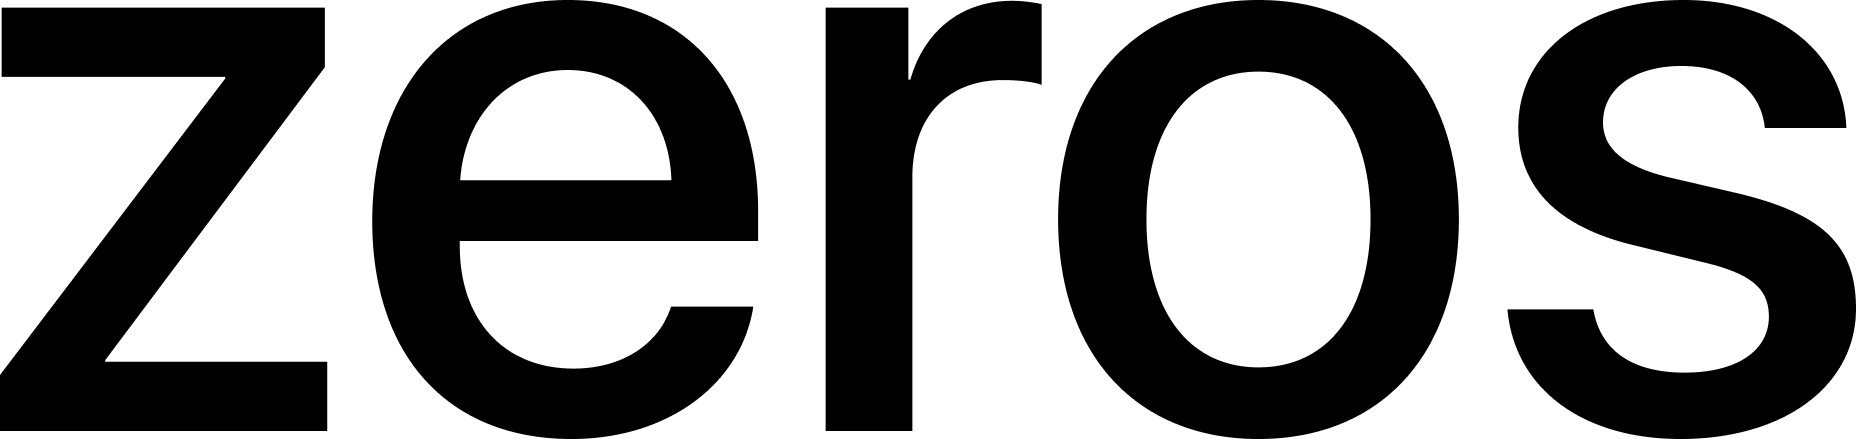
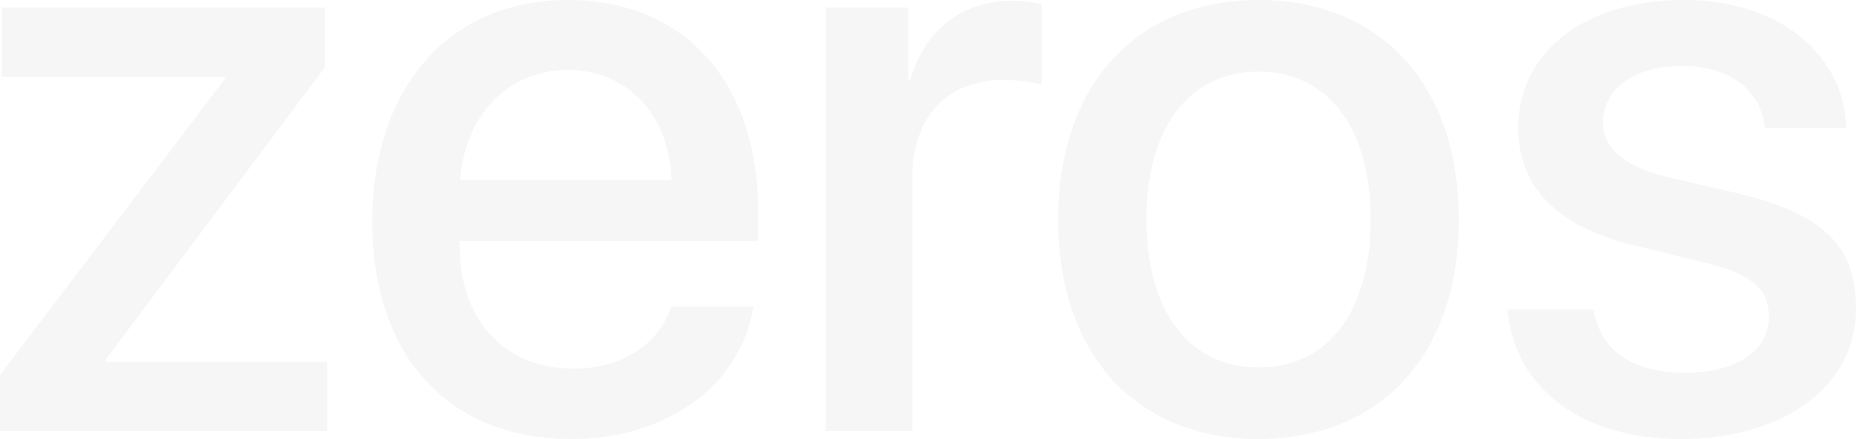
,

diff --git a/src/app/page.jsx b/src/app/page.jsx
@@ -57,7 +57,7 @@ export default function Home() {
     isAutoScrolling.current = true;
     setTimeout(() => {
       isAutoScrolling.current = false;
-    }, 1200);
+    }, 400);
   }
 
   useEffect(() => {
@@ -87,7 +87,7 @@ export default function Home() {
 
   return (
     <motion.div
-      animate={{ backgroundColor: currentSection !== 'top' ? "#000" : "#fff" }}
+      animate={{ backgroundColor: currentSection !== 'top' ? "#090909" : "#F6F6F7" }}
       transition={{ duration: 0.5 }}
       className="flex flex-col min-h-screen"
     >
@@ -102,39 +102,39 @@ export default function Home() {
       />
       <div ref={breakpointRef} className="h-screen flex flex-col">
         <div className="flex-grow" />
-        <div className="flex flex-col gap-4 p-6 mx-auto">
-          <span className="sf-pro-regular text-4xl w-140">
+        <div className="flex flex-col gap-4 px-16 py-6 mx-auto">
+          <span className="sf-pro-regular text-4xl w-140 text-[#090909]">
             We provide software factory services, tailoring solutions to your needs.
           </span>
           <Image
             src={Logo}
             alt="Logo"
-            className="justify-center items-center flex mix-blend-difference filter brightness-0 invert"
+            className="justify-center items-center flex mix-blend-exclusion"
           />
         </div>
       </div>
-      <div ref={lastDivRef} style={{ height: "100vh", width: "100%" }} className="flex flex-col items-center px-4">
+      <div ref={lastDivRef} style={{ height: "100vh", width: "100%" }} className="flex flex-col items-center">
         <motion.span
-          className="text-white mix-blend-difference mt-8"
+          className="text-white mix-blend-exclusion mt-8"
           initial={{ fontSize: "130px" }}
-          animate={{ fontSize: currentSection !== 'top' ? "167px" : "130px" }}
+          animate={{ fontSize: currentSection !== 'top' ? "163px" : "130px" }}
           transition={{ duration: 0.5 }}
         >
           Developing to your needs.
         </motion.span>
-        <div className="bg-[#191919] rounded-2xl flex-grow flex w-full m-8">
+        <div className="bg-[#191919] rounded-2xl flex-grow flex w-full my-8">
 
         </div>
       </div>
-      <div ref={teamRef} style={{ height: "100vh", width: "100%" }} className="flex flex-col items-center px-4 bg-black text-white text-sf-pro-regular text-6xl justify-center">
+      <div ref={teamRef} style={{ height: "100vh", width: "100%" }} className="flex flex-col items-center px-14 bg-[#090909] text-white text-sf-pro-regular text-6xl justify-center">
         <span className="w-full text-justify">
           We are a team of developers and designers, based in Buenos Aires, Argentina, who factors software into your businesses and ideas, transforming what's in your mind to code and design.
         </span>
       </div>
-      <div ref={servicesRef} style={{ height: "100vh", width: "100%" }} className="flex flex-col px-5 bg-black">
+      <div ref={servicesRef} style={{ height: "100vh", width: "100%" }} className="flex flex-col px-15 bg-[#090909]">
         <Services contactRef={contactRef} setCurrentSection={setCurrentSection} />
       </div>
-      <div ref={contactRef} style={{ height: "100vh", width: "100%" }} className="flex flex-col px-6 bg-black">
+      <div ref={contactRef} style={{ height: "100vh", width: "100%" }} className="flex flex-col px-16 bg-[#090909]">
         <Contact />
       </div>
 

diff --git a/src/sections/Services.jsx b/src/sections/Services.jsx
@@ -3,38 +3,38 @@ import TypewriterComponent from "typewriter-effect";
 import AccordionItem from "../components/AccordionItem";
 
 function RotatingPhrase() {
-    return (
-        <div className="flex flex-row text-2xl mt-4 gap-1.5">
-            <span>
-                *What you
-            </span>
-            <TypewriterComponent options={{
-                strings: ["need", "want", "wish"],
-                loop: true,
-                autoStart: true,
-                wrapperClassName: "inline-block text-white sf-pro-bold",
-            }}/>
-        </div>
-    );
+  return (
+    <div className="flex flex-row text-2xl mt-4 gap-1.5">
+      <span>
+        *what you
+      </span>
+      <TypewriterComponent options={{
+        strings: ["need", "want", "wish"],
+        loop: true,
+        autoStart: true,
+        wrapperClassName: "inline-block text-white sf-pro-bold",
+      }} />
+    </div>
+  );
 }
 
 const services = [
-    {
-        label: "Mobile",
-        description: "We craft secure, intuitive and beautifully designed mobile apps that bring your ideas to people’s pockets."
-    },
-    {
-        label: "Web",
-        description: "From internal tools to public platforms, we build secure, scalable, and modern web apps tailored to your workflow and brand."
-    },
-    {
-        label: "Branding",
-        description: "We shape brands that speak clearly. Distinctive, aligned, and built to connect."
-    },
-    {
-        label: "Blockchain & Web3",
-        description: "We develop decentralized apps and smart contracts with transparency and security at their core."
-    }
+  {
+    label: "Mobile",
+    description: "We craft secure, intuitive and beautifully designed mobile apps that bring your ideas to people’s pockets."
+  },
+  {
+    label: "Web",
+    description: "From internal tools to public platforms, we build secure, scalable, and modern web apps tailored to your workflow and brand."
+  },
+  {
+    label: "Branding",
+    description: "We shape brands that speak clearly. Distinctive, aligned, and built to connect."
+  },
+  {
+    label: "Blockchain & Web3",
+    description: "We develop decentralized apps and smart contracts with transparency and security at their core."
+  }
 ];
 
 export default function Services({ contactRef, setCurrentSection }) {

diff --git a/src/sections/Contact.jsx b/src/sections/Contact.jsx
@@ -6,20 +6,6 @@ export default function Contact() {
                 <span className="text-4xl mt-4 w-130">Let us know how can we help you achieve your goal.</span>
                 <div className="w-full bg-white h-2 mt-6"></div>
                 <span className="mt-6 text-2xl">Type here (feel free to drop images)</span>
-                <div className="absolute bottom-10 flex flex-row items-center sf-pro font-medium text-2xl underline underline-offset-5 justify-between w-full">
-                    <div className="gap-10 flex items-start">
-                        <a>
-                            → Github
-                        </a>
-                        <a>
-                            → LinkedIn
-                        </a>
-                        <a>
-                            → Mail
-                        </a>
-                    </div>
-                    <div>2025</div>
-                </div>
             </div>
         </div>
     );

diff --git a/src/components/NavBar.jsx b/src/components/NavBar.jsx
@@ -11,7 +11,7 @@ export default function NavBar({
 }) {
     return (
         <div
-            className="px-6 py-4 sf-pro font-medium text-2xl gap-10 flex items-start fixed z-10 mix-blend-difference text-white"
+            className="px-16 py-4 sf-pro font-medium text-2xl gap-10 flex items-start fixed z-10 mix-blend-exclusion text-[#F6F6F7]"
             onMouseEnter={() => setNavHovered(true)}
             onMouseLeave={() => setNavHovered(false)}
         >
